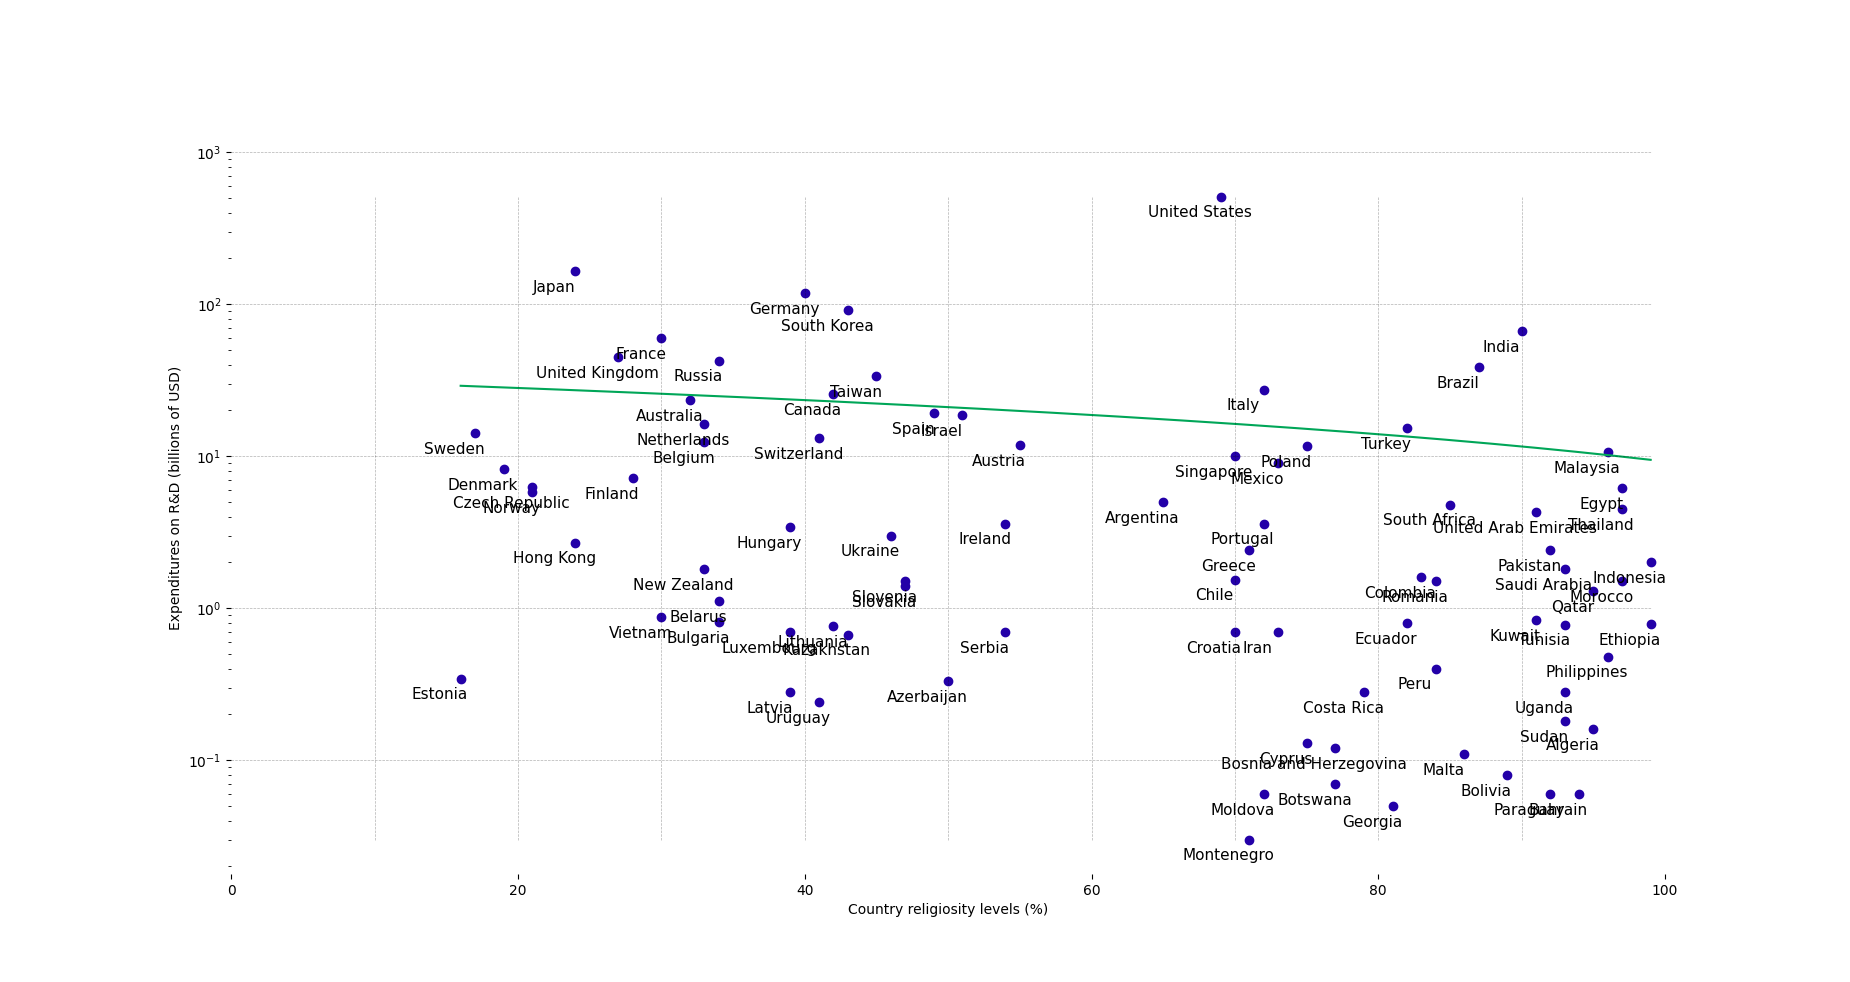
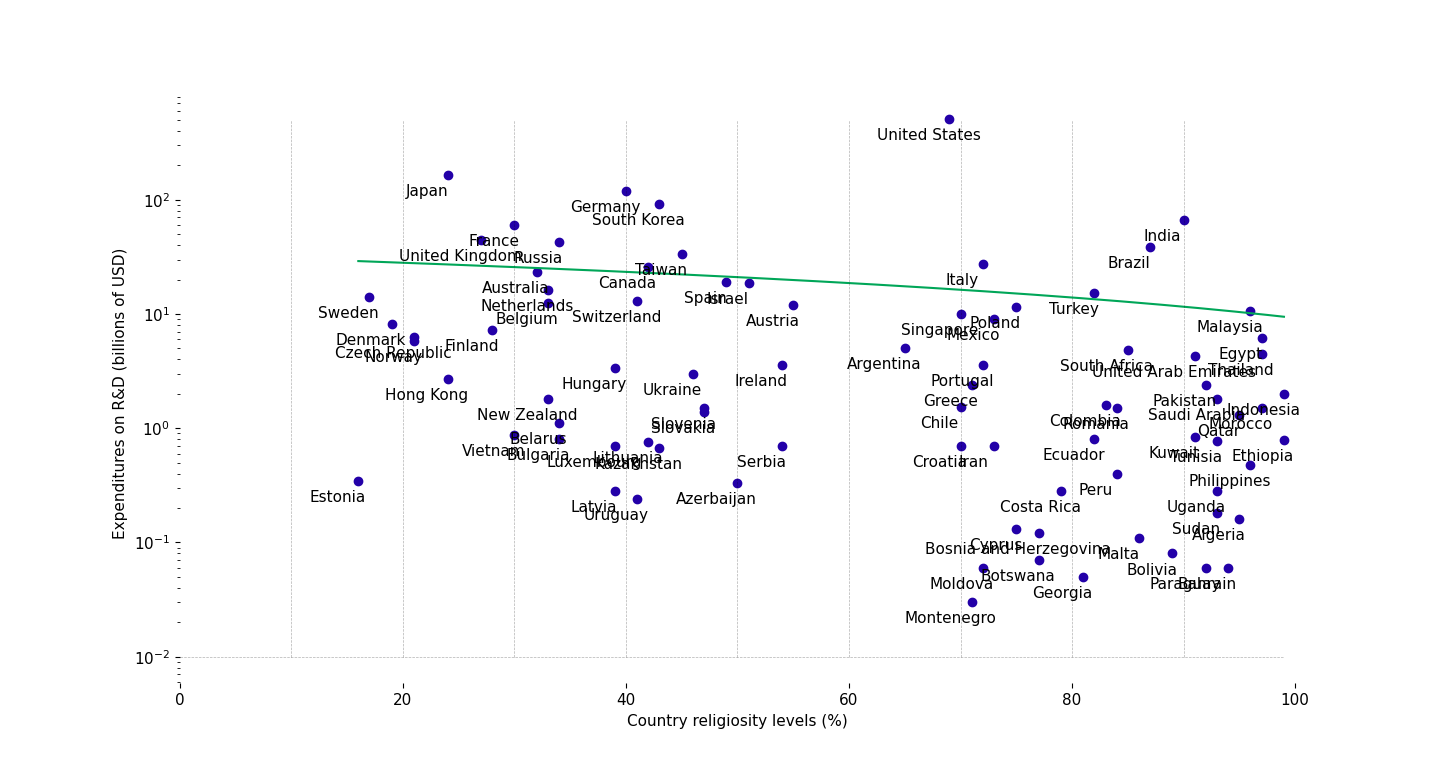
plots: refactored plotting automatization to use config indexes

diff --git a/scripts/plot.py b/scripts/plot.py
@@ -1,92 +1,17 @@
-import csv
-
 import matplotlib.pyplot as plt
-from matplotlib.patches import Rectangle
 import numpy as np
 
 from scripts.congregate_data import extract_data
-from scripts.utils import compare_names, convert_to_number, extract_name_from_file
 from scripts.regression import regression_points
+from scripts.plotting_scripts import default_plot_function
 
 colors = {'blue': '#2300A8', 'yellow': '#FFFF00', 'green': '#00A658', 'red': '#FF0000'}
 
 
-def plot_education_index(master_data):
+def default_plot(master_data, index=None, plot_function=default_plot_function, ylabel_unit='', log=False,
+                 save_file=True, horizontal_ticks=None):
     """Plot the data sets with some default parameters."""
-    index = 'EducationIndex'
-
-    ylabel = index
-    file_name = f'../figures/{index}.png'
-
-    data_index, data_religion_level, txt = extract_data(master_data, index, 'Religion is important')
-
-    regression_x, regression_y = regression_points(data_religion_level, data_index)
-
-    fig, ax = plt.subplots()
-    colors = {'blue': '#2300A8', 'yellow': '#FFFF00', 'green': '#00A658', 'red': '#FF0000'}
-
-    for i in range(len(data_religion_level)):
-        point_x = data_religion_level[i]
-        point_y = data_index[i]
-
-        if point_x < 60 and point_y > 0.7:
-            color = colors['blue']
-        elif 60 < point_x:
-            color = colors['yellow']
-            if point_y < 0.55:
-                color = colors['red']
-
-        else:
-            color = colors['red']
-
-        ax.plot(point_x, point_y, 'o', color=color)
-
-    plt.xlabel("Country religiosity levels (%)")
-    plt.ylabel(f"{ylabel} (a.u.)")
-    # ax.set_yscale('log')
-
-    # Annotate points with country text
-    plt.rcParams.update({'font.size': 11})
-    if txt:
-        for i in range(len(txt)):
-            ax.annotate(txt[i], (data_religion_level[i], data_index[i]),
-                        textcoords="offset points",  # how to position the text
-                        xytext=(-15, -15),  # distance from text to points (data_religion_level,data_index)
-                        ha='center',  # horizontal alignment can be left, right or center
-                        )
-    plt.plot(regression_x, regression_y, '-r', color=colors['green'])
-    # ax.legend(['Data Points', 'Regression Line'])
-
-    ax.set_xlim([0, 100])
-    # ax.set_ylim([0, 100])
-
-    # Provide tick lines across the plot to help your viewers trace along
-    # the axis ticks. Make sure that the lines are light and small so they
-    # don't obscure the primary data lines.
-    # y_min = int(min(data_index) * 10)/10
-    # y_max = int(max(data_index) * 10)/10 + 0.1
-    y_min = 0
-    y_max = 1
-    n_points = int((y_max - y_min) * 10) + 1
-
-    for data_index in np.linspace(y_min, y_max, n_points):
-        plt.plot(range(0, 100), [data_index] * len(range(0, 100)), "--", lw=0.5, color="black", alpha=0.3)
-
-    x_ticks = [10, 20, 30, 40, 50, 60, 70, 80, 90, 100]
-    for data_religion_level in x_ticks:
-        plt.plot([data_religion_level] * len(range(0, 100)), np.linspace(y_min, y_max, 100), "--", lw=0.5, color="black", alpha=0.3)
-
-    # Remove default boxing
-    for spine in plt.gca().spines.values():
-        spine.set_visible(False)
-
-    fig.savefig(file_name)
-    plt.show()
-
-
-def default_plot(master_data, index=None, ylabel_unit='', save_file=False):
-    """Plot the data sets with some default parameters."""
-
+    print(f'Plotting index: {index}.')
     ylabel = f'{index} {ylabel_unit}'
     file_name = f'../figures/{index}.png'
 
@@ -94,13 +19,21 @@ def default_plot(master_data, index=None, ylabel_unit='', save_file=False):
 
     regression_x, regression_y = regression_points(data_religion_level, data_index)
 
-    fig, ax = plt.subplots()
+    zoom_factor = 2
 
-    ax.plot(data_religion_level, data_index, 'o', color=colors['blue'])
+    w = 7.195 * zoom_factor
+    h = 3.841 * zoom_factor
+
+    fig, ax = plt.subplots()
+    fig.set_size_inches(w, h)
+
+    plot_function(ax, data_religion_level, data_index)
 
     plt.xlabel("Country religiosity levels (%)")
     plt.ylabel(f"{ylabel} ")
-    # ax.set_yscale('log')
+
+    if log:
+        ax.set_yscale('log')
 
     # Annotate points with country text
     plt.rcParams.update({'font.size': 11})
@@ -120,16 +53,18 @@ def default_plot(master_data, index=None, ylabel_unit='', save_file=False):
     # Provide tick lines across the plot to help your viewers trace along
     # the axis ticks. Make sure that the lines are light and small so they
     # don't obscure the primary data lines.
-    y_min = min(data_index)
-    y_max = max(data_index)
-    n_points = int((y_max - y_min) * 10) + 1
+    if isinstance(horizontal_ticks, tuple):
+        for data_index_value in np.linspace(*horizontal_ticks):
+            plt.plot(range(0, 100), [data_index_value] * len(range(0, 100)), "--", lw=0.5, color="black", alpha=0.3)
 
-    for data_index in np.linspace(y_min, y_max, n_points):
-        plt.plot(range(0, 100), [data_index] * len(range(0, 100)), "--", lw=0.5, color="black", alpha=0.3)
+    # Plot vertical lines for religiosity levels
 
+    y_min = horizontal_ticks[0]
+    y_max = horizontal_ticks[1]
     x_ticks = [10, 20, 30, 40, 50, 60, 70, 80, 90, 100]
     for data_religion_level in x_ticks:
         plt.plot([data_religion_level] * len(range(0, 100)), np.linspace(y_min, y_max, 100), "--", lw=0.5, color="black", alpha=0.3)
+
 
     # Remove default boxing
     for spine in plt.gca().spines.values():
@@ -139,112 +74,3 @@ def default_plot(master_data, index=None, ylabel_unit='', save_file=False):
         fig.savefig(file_name)
     else:
         plt.show()
-
-
-def plot_research_expenditure_absolute(master_data):
-    """Plot the data sets with some default parameters."""
-
-    index = 'Expenditures on R&D (billions of USD)'
-    ylabel = f'{index}'
-    file_name = f'../figures/{index}.png'
-
-    data_index, data_religion_level, txt = extract_data(master_data, index, 'Religion is important')
-
-    regression_x, regression_y = regression_points(data_religion_level, data_index)
-
-    fig, ax = plt.subplots()
-
-    ax.plot(data_religion_level, data_index, 'o', color=colors['blue'])
-
-    plt.xlabel("Country religiosity levels (%)")
-    plt.ylabel(f"{ylabel} ")
-    ax.set_yscale('log')
-
-    # Annotate points with country text
-    plt.rcParams.update({'font.size': 11})
-    if txt:
-        for i in range(len(txt)):
-            ax.annotate(txt[i], (data_religion_level[i], data_index[i]),
-                        textcoords="offset points",  # how to position the text
-                        xytext=(-15, -15),  # distance from text to points (data_religion_level,data_index)
-                        ha='center',  # horizontal alignment can be left, right or center
-                        )
-    plt.plot(regression_x, regression_y, '-r', color=colors['green'])
-    # ax.legend(['Data Points', 'Regression Line'])
-
-    ax.set_xlim([0, 100])
-    # ax.set_ylim([0, 100])
-
-    # Provide tick lines across the plot to help your viewers trace along
-    # the axis ticks. Make sure that the lines are light and small so they
-    # don't obscure the primary data lines.
-    y_min = min(data_index)
-    y_max = max(data_index)
-    n_points = int((y_max - y_min)) + 1
-
-    y_ticks = [0.1, 1, 10, 100, 1000]
-    for data_index in y_ticks:
-        plt.plot(range(0, 100), [data_index] * len(range(0, 100)), "--", lw=0.5, color="black", alpha=0.3)
-
-    x_ticks = [10, 20, 30, 40, 50, 60, 70, 80, 90, 100]
-    for data_religion_level in x_ticks:
-        plt.plot([data_religion_level] * len(range(0, 100)), np.linspace(y_min, y_max, 100), "--", lw=0.5, color="black", alpha=0.3)
-
-    # Remove default boxing
-    for spine in plt.gca().spines.values():
-        spine.set_visible(False)
-
-    plt.show()
-
-
-def plot_research_expenditure_relative(master_data):
-    """Plot the data sets with some default parameters."""
-    index = '% of GDP'
-    ylabel = f'{index} invested in Research and Development'
-    file_name = f'../figures/{index}.png'
-
-    data_index, data_religion_level, txt = extract_data(master_data, index, 'Religion is important')
-
-    regression_x, regression_y = regression_points(data_religion_level, data_index)
-
-    fig, ax = plt.subplots()
-
-    ax.plot(data_religion_level, data_index, 'o', color=colors['blue'])
-
-    plt.xlabel("Country religiosity levels (%)")
-    plt.ylabel(f"{ylabel} ")
-    # ax.set_yscale('log')
-
-    # Annotate points with country text
-    plt.rcParams.update({'font.size': 11})
-    if txt:
-        for i in range(len(txt)):
-            ax.annotate(txt[i], (data_religion_level[i], data_index[i]),
-                        textcoords="offset points",  # how to position the text
-                        xytext=(-15, -15),  # distance from text to points (data_religion_level,data_index)
-                        ha='center',  # horizontal alignment can be left, right or center
-                        )
-    plt.plot(regression_x, regression_y, '-r', color=colors['green'])
-    # ax.legend(['Data Points', 'Regression Line'])
-
-    ax.set_xlim([0, 100])
-    # ax.set_ylim([0, 100])
-
-    # Provide tick lines across the plot to help your viewers trace along
-    # the axis ticks. Make sure that the lines are light and small so they
-    # don't obscure the primary data lines.
-    y_min = 0
-    y_max = 5
-    y_ticks = [1, 2, 3, 4, 5]
-    for data_index in y_ticks:
-        plt.plot(range(0, 100), [data_index] * len(range(0, 100)), "--", lw=0.5, color="black", alpha=0.3)
-
-    x_ticks = [10, 20, 30, 40, 50, 60, 70, 80, 90, 100]
-    for data_religion_level in x_ticks:
-        plt.plot([data_religion_level] * len(range(0, 100)), np.linspace(y_min, y_max, 100), "--", lw=0.5, color="black", alpha=0.3)
-
-    # Remove default boxing
-    for spine in plt.gca().spines.values():
-        spine.set_visible(False)
-
-    plt.show()

diff --git a/scripts/indexes.py b/scripts/indexes.py
@@ -1,0 +1,18 @@
+from scripts.plotting_scripts import default_plot_function, plot_education_index_function
+from numpy import linspace
+
+index_dict = {
+    'Education Index': {'plot_function': plot_education_index_function, 'horizontal_ticks': (0.3, 1.0, 8)},
+    'Expected years of schooling': {'plot_function': default_plot_function, 'horizontal_ticks': (7, 21, 15)},
+    'Mean years of schooling': {'plot_function': default_plot_function, 'horizontal_ticks': (0, 14, 15)},
+    'HDI rank': {'plot_function': default_plot_function, 'horizontal_ticks': (0, 200, 9)},
+    'Happiness Score': {'plot_function': default_plot_function, 'horizontal_ticks': (0, 8, 17)},
+    'GDP per capita': {'plot_function': default_plot_function, 'horizontal_ticks': (0.3, 1.7, 15)},
+    'Social support': {'plot_function': default_plot_function, 'horizontal_ticks': (0.6, 1.6, 11)},
+    'Healthy life expectancy': {'plot_function': default_plot_function, 'horizontal_ticks': (0.4, 1.2, 9)},
+    'Expenditures on R&D (billions of USD)': {'plot_function': default_plot_function, 'log': True, 'horizontal_ticks': (0.01, 500, 1)},
+    'Expenditures on R&D (% of GDP)': {'plot_function': default_plot_function, 'horizontal_ticks': (0, 5, 11)},
+    'Generosity': {'plot_function': default_plot_function, 'horizontal_ticks': (0, 0.5, 6)},
+    'Freedom to make life choices': {'plot_function': default_plot_function, 'horizontal_ticks': (0, 0.6, 7)},
+    'Fight against corruption': {'plot_function': default_plot_function, 'horizontal_ticks': (0, 0.5, 6)}
+}

diff --git a/scripts/congregate_data.py b/scripts/congregate_data.py
@@ -1,10 +1,10 @@
 import csv
 
 data_location = '../data/'
-data_files = {'education-index.csv': ['EducationIndex', 'Expected years of schooling', 'Mean years of schooling', 'HDI rank'],
+data_files = {'education-index.csv': ['Education Index', 'Expected years of schooling', 'Mean years of schooling', 'HDI rank'],
               'religiosity-levels.csv': ['Religion is important', 'Religion is unimportant'],
-              'happiness-index.csv': ['Happiness Score', 'GDP per capita', 'Social support', 'Healthy life expectancy', 'Freedom to make life choices', 'Generosity', 'Perceptions of corruption'],
-              'research.csv': ['Expenditures on R&D (billions of USD)', '% of GDP']}
+              'happiness-index.csv': ['Happiness Score', 'GDP per capita', 'Social support', 'Healthy life expectancy', 'Freedom to make life choices', 'Generosity', 'Fight against corruption'],
+              'research.csv': ['Expenditures on R&D (billions of USD)', 'Expenditures on R&D (% of GDP)']}
 
 
 def congregate_data():

diff --git a/scripts/main.py b/scripts/main.py
@@ -1,17 +1,13 @@
 from scripts.congregate_data import congregate_data
-from scripts.plot import plot_education_index, default_plot, plot_research_expenditure_absolute, plot_research_expenditure_relative
+from scripts.indexes import index_dict
+from scripts.plot import default_plot
 
 
 def main():
     master_data = congregate_data()
-    index_list = ['Happiness Score', 'Generosity', 'Freedom to make life choices', 'Perceptions of corruption']
 
-    # plot_education_index(master_data)
-    # plot_research_expenditure_absolute(master_data)
-    # plot_research_expenditure_relative(master_data)
-
-    for index in index_list:
-        default_plot(master_data, index)
+    for index, kwargs in index_dict.items():
+        default_plot(master_data, index=index, **kwargs)
 
 
 if __name__ == "__main__":

diff --git a/scripts/plotting_scripts.py b/scripts/plotting_scripts.py
@@ -1,0 +1,24 @@
+colors = {'blue': '#2300A8', 'yellow': '#FFFF00', 'green': '#00A658', 'red': '#FF0000'}
+
+
+def default_plot_function(ax, data_religion_level, data_index):
+    ax.plot(data_religion_level, data_index, 'o', color=colors['blue'])
+
+
+def plot_education_index_function(ax, data_religion_level, data_index):
+
+    for i in range(len(data_religion_level)):
+        point_x = data_religion_level[i]
+        point_y = data_index[i]
+
+        if point_x < 60 and point_y > 0.7:
+            color = colors['blue']
+        elif 60 < point_x:
+            color = colors['yellow']
+            if point_y < 0.55:
+                color = colors['red']
+
+        else:
+            color = colors['red']
+
+        ax.plot(point_x, point_y, 'o', color=color)

diff --git a/scripts/regression.py b/scripts/regression.py
@@ -5,7 +5,7 @@ from scipy.stats import linregress
 def regression_points(x, y):
     """Find regression line"""
     gradient, intercept, r_value, p_value, std_err = linregress(x, y)
-    print(f'{gradient} {r_value} {p_value}')
+    print(f'Gradient: {gradient}\tR: {r_value}\tp: {p_value}\n')
     mn = np.min(x)
     mx = np.max(x)
     x1 = np.linspace(mn, mx, 500)
